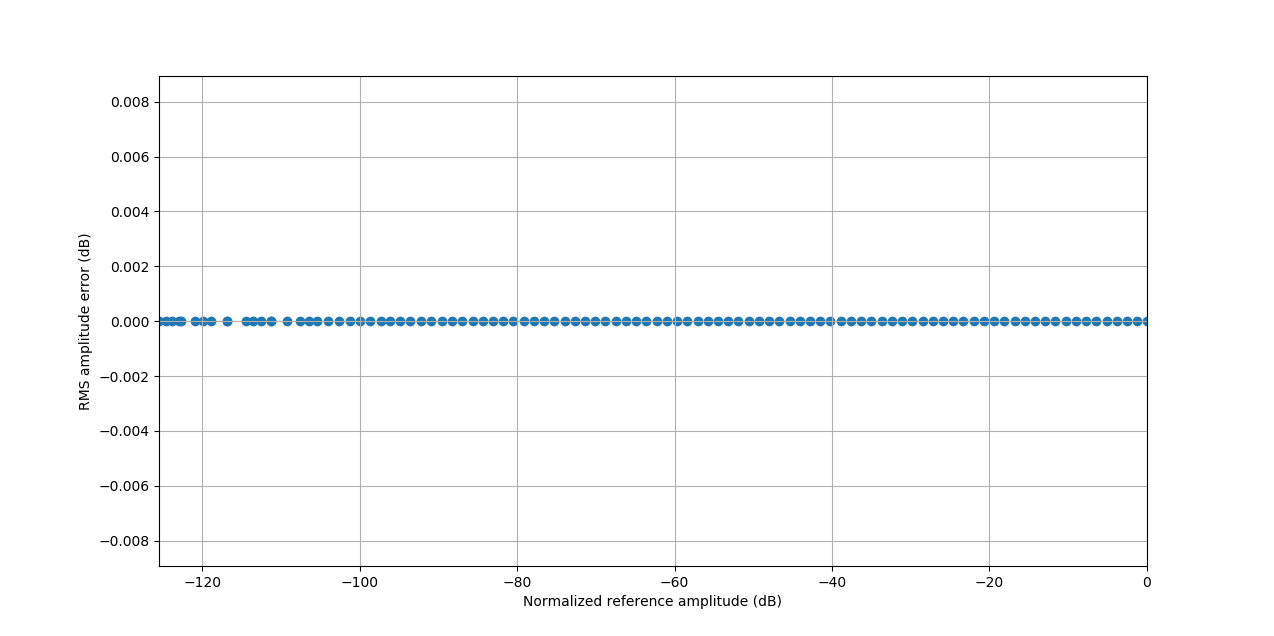
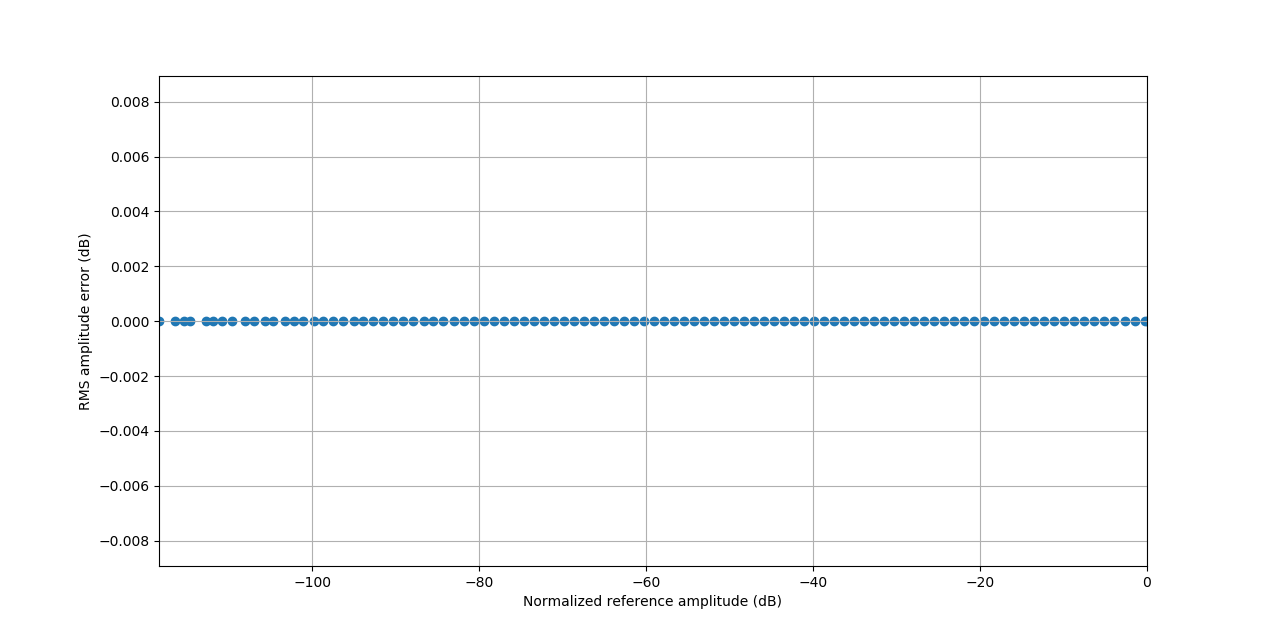
Improve linarity test parameters slightly.

diff --git a/README.md b/README.md
@@ -136,14 +136,14 @@ noise to focus on the test signal.
 ```
 sox --null --bits 16 --rate 48000 linearity-test.wav \
     synth 100 sine 997 \
-    synth exp amod 0.01 0 0 0 65
+    synth exp amod 0.01 0 0 0 60
 ```
 
 ### Recorded signal analysis
 
 ```
-sox linearity-test.wav --bits 32 linearity-reference.wav sinc -t 20 994-1003 remix 1
-sox linearity-recorded.wav --bits 32 linearity-filtered.wav sinc -t 20 994-1003 remix 1
+sox linearity-test.wav --bits 32 linearity-reference.wav bandpass 997 200q bandpass 997 200q remix 1
+sox linearity-recorded.wav --bits 32 linearity-filtered.wav bandpass 997 200q bandpass 997 200q remix 1
 ./correlate.py \
     --reference-wav-file=linearity-reference.wav \
     --test-wav-file=linearity-filtered.wav \
@@ -191,9 +191,9 @@ sox linearity-test.wav --no-dither linearity-recorded.wav gain -10
 - Use the `plot_amplitude --window-size-seconds` parameter to adjust the
   smoothing of the resulting plot. Higher values make for a more readable plot
   but hides uncertainty in the data points.
-- The amplitude lower bound of the test signal is -130 dBFS in the command
-  above. It is twice the parameter `65`. For example, to test down to -150 dBFS,
-  change `65` to `75`.
+- The amplitude lower bound of the test signal is -120 dBFS in the command
+  above. It is twice the parameter `60`. For example, to test down to -160 dBFS,
+  change `60` to `80`.
 - The purpose of the analysis band-pass filter is to fish the test signal out
   of the dithering noise, as well as any additional noise produced by the EUT.
   The filter parameters determine the lower amplitude bound at which the
@@ -202,8 +202,8 @@ sox linearity-test.wav --no-dither linearity-recorded.wav gain -10
   "hockey stick" on the left of the resulting plot. The above command is able to
   resolve down to around 15 dB below a TPDF dither noise floor; so, for example,
   it can measure down to around -110 dBFS (~18 bits) in the presence of 16-bit
-  dithering noise. The absolute limit of the analyser is around -150 dBFS,
-  presumably due to floating-point precision errors in the sinc filter.
+  dithering noise. The absolute limit of the analyser is around -160 dBFS,
+  presumably due to computation accuracy.
 
 [AES17-2015]: http://www.aes.org/publications/standards/search.cfm?docID=21
 [dbFS]: https://en.wikipedia.org/wiki/DBFS#RMS_levels
